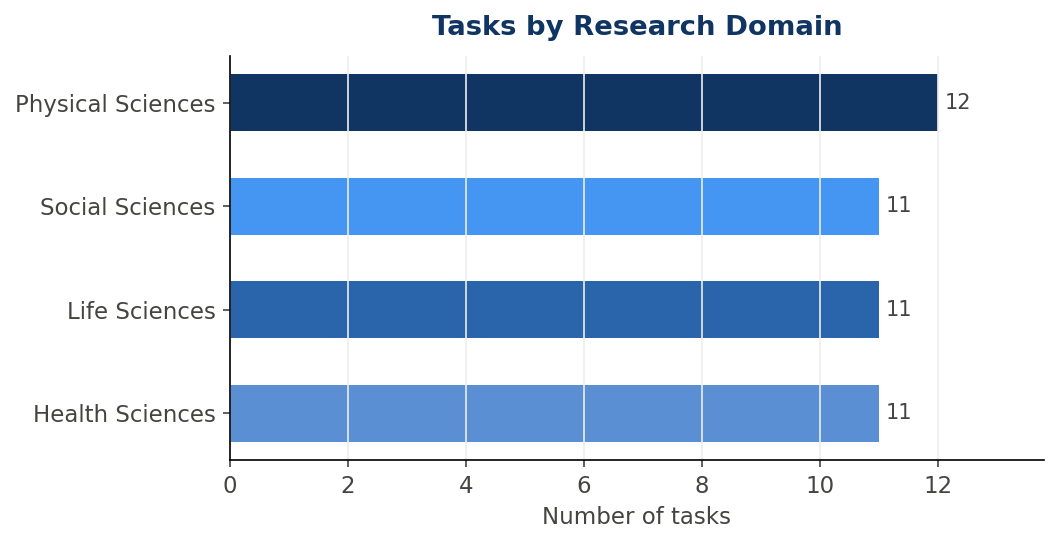
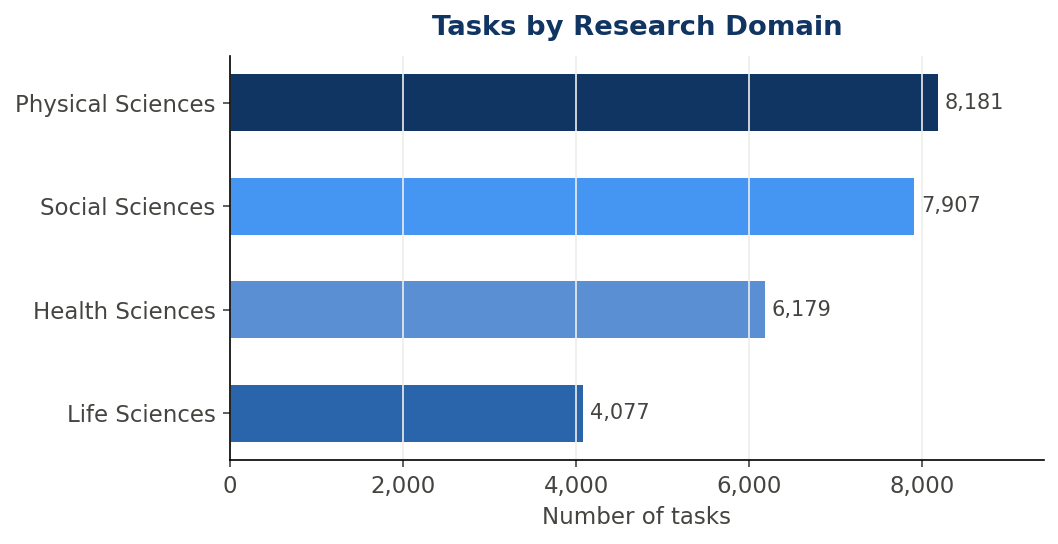
Fix tasks_by_domain: count all tasks via field->domain mapping

diff --git a/generate_figures.py b/generate_figures.py
@@ -72,13 +72,60 @@ def save(fig, name):
     print(f"  saved: figures/{name}")
 
 
+# Mapping from SciNet display field → research domain
+FIELD_TO_DOMAIN = {
+    "Agricultural Sciences":      "Life Sciences",
+    "Biology":                    "Life Sciences",
+    "Biomedical Sciences":        "Life Sciences",
+    "Environmental Science":      "Life Sciences",
+    "Anthropology":               "Social Sciences",
+    "Arts":                       "Social Sciences",
+    "Business & Management":      "Social Sciences",
+    "Communication & Media Studies": "Social Sciences",
+    "Economics":                  "Social Sciences",
+    "Education":                  "Social Sciences",
+    "Geography":                  "Social Sciences",
+    "History":                    "Social Sciences",
+    "Languages & Linguistics":    "Social Sciences",
+    "Law":                        "Social Sciences",
+    "Literature":                 "Social Sciences",
+    "Philosophy":                 "Social Sciences",
+    "Political Science":          "Social Sciences",
+    "Psychology":                 "Social Sciences",
+    "Religion":                   "Social Sciences",
+    "Sociology":                  "Social Sciences",
+    "Chemistry":                  "Physical Sciences",
+    "Computer Science":           "Physical Sciences",
+    "Earth & Planetary Sciences": "Physical Sciences",
+    "Engineering":                "Physical Sciences",
+    "Materials Science":          "Physical Sciences",
+    "Mathematics":                "Physical Sciences",
+    "Physics & Astronomy":        "Physical Sciences",
+    "Statistics":                 "Physical Sciences",
+    "Medicine & Clinical Sciences": "Health Sciences",
+    "Neuroscience":               "Health Sciences",
+}
+
 # ══════════════════════════════════════════════════════════════════════════════
 # 1. Tasks by domain
 # ══════════════════════════════════════════════════════════════════════════════
 def fig_tasks_by_domain():
     df = pd.read_csv(PUB / "tasks.csv")
-    counts = (df[df["domain"].notna() & (df["domain"] != "")]
-                .groupby("domain")
+
+    # Derive domain for every task:
+    #   - domain-level tasks already have `domain` filled
+    #   - subfield-level tasks have `field` filled; derive domain via lookup
+    #   - universal tasks are excluded (they belong to all domains)
+    def get_domain(row):
+        if pd.notna(row["domain"]) and row["domain"] != "":
+            return row["domain"]
+        if pd.notna(row["field"]) and row["field"] != "":
+            return FIELD_TO_DOMAIN.get(row["field"])
+        return None
+
+    df["domain_resolved"] = df.apply(get_domain, axis=1)
+    counts = (df[df["domain_resolved"].notna()]
+                .groupby("domain_resolved")
                 .size()
                 .sort_values())
 
